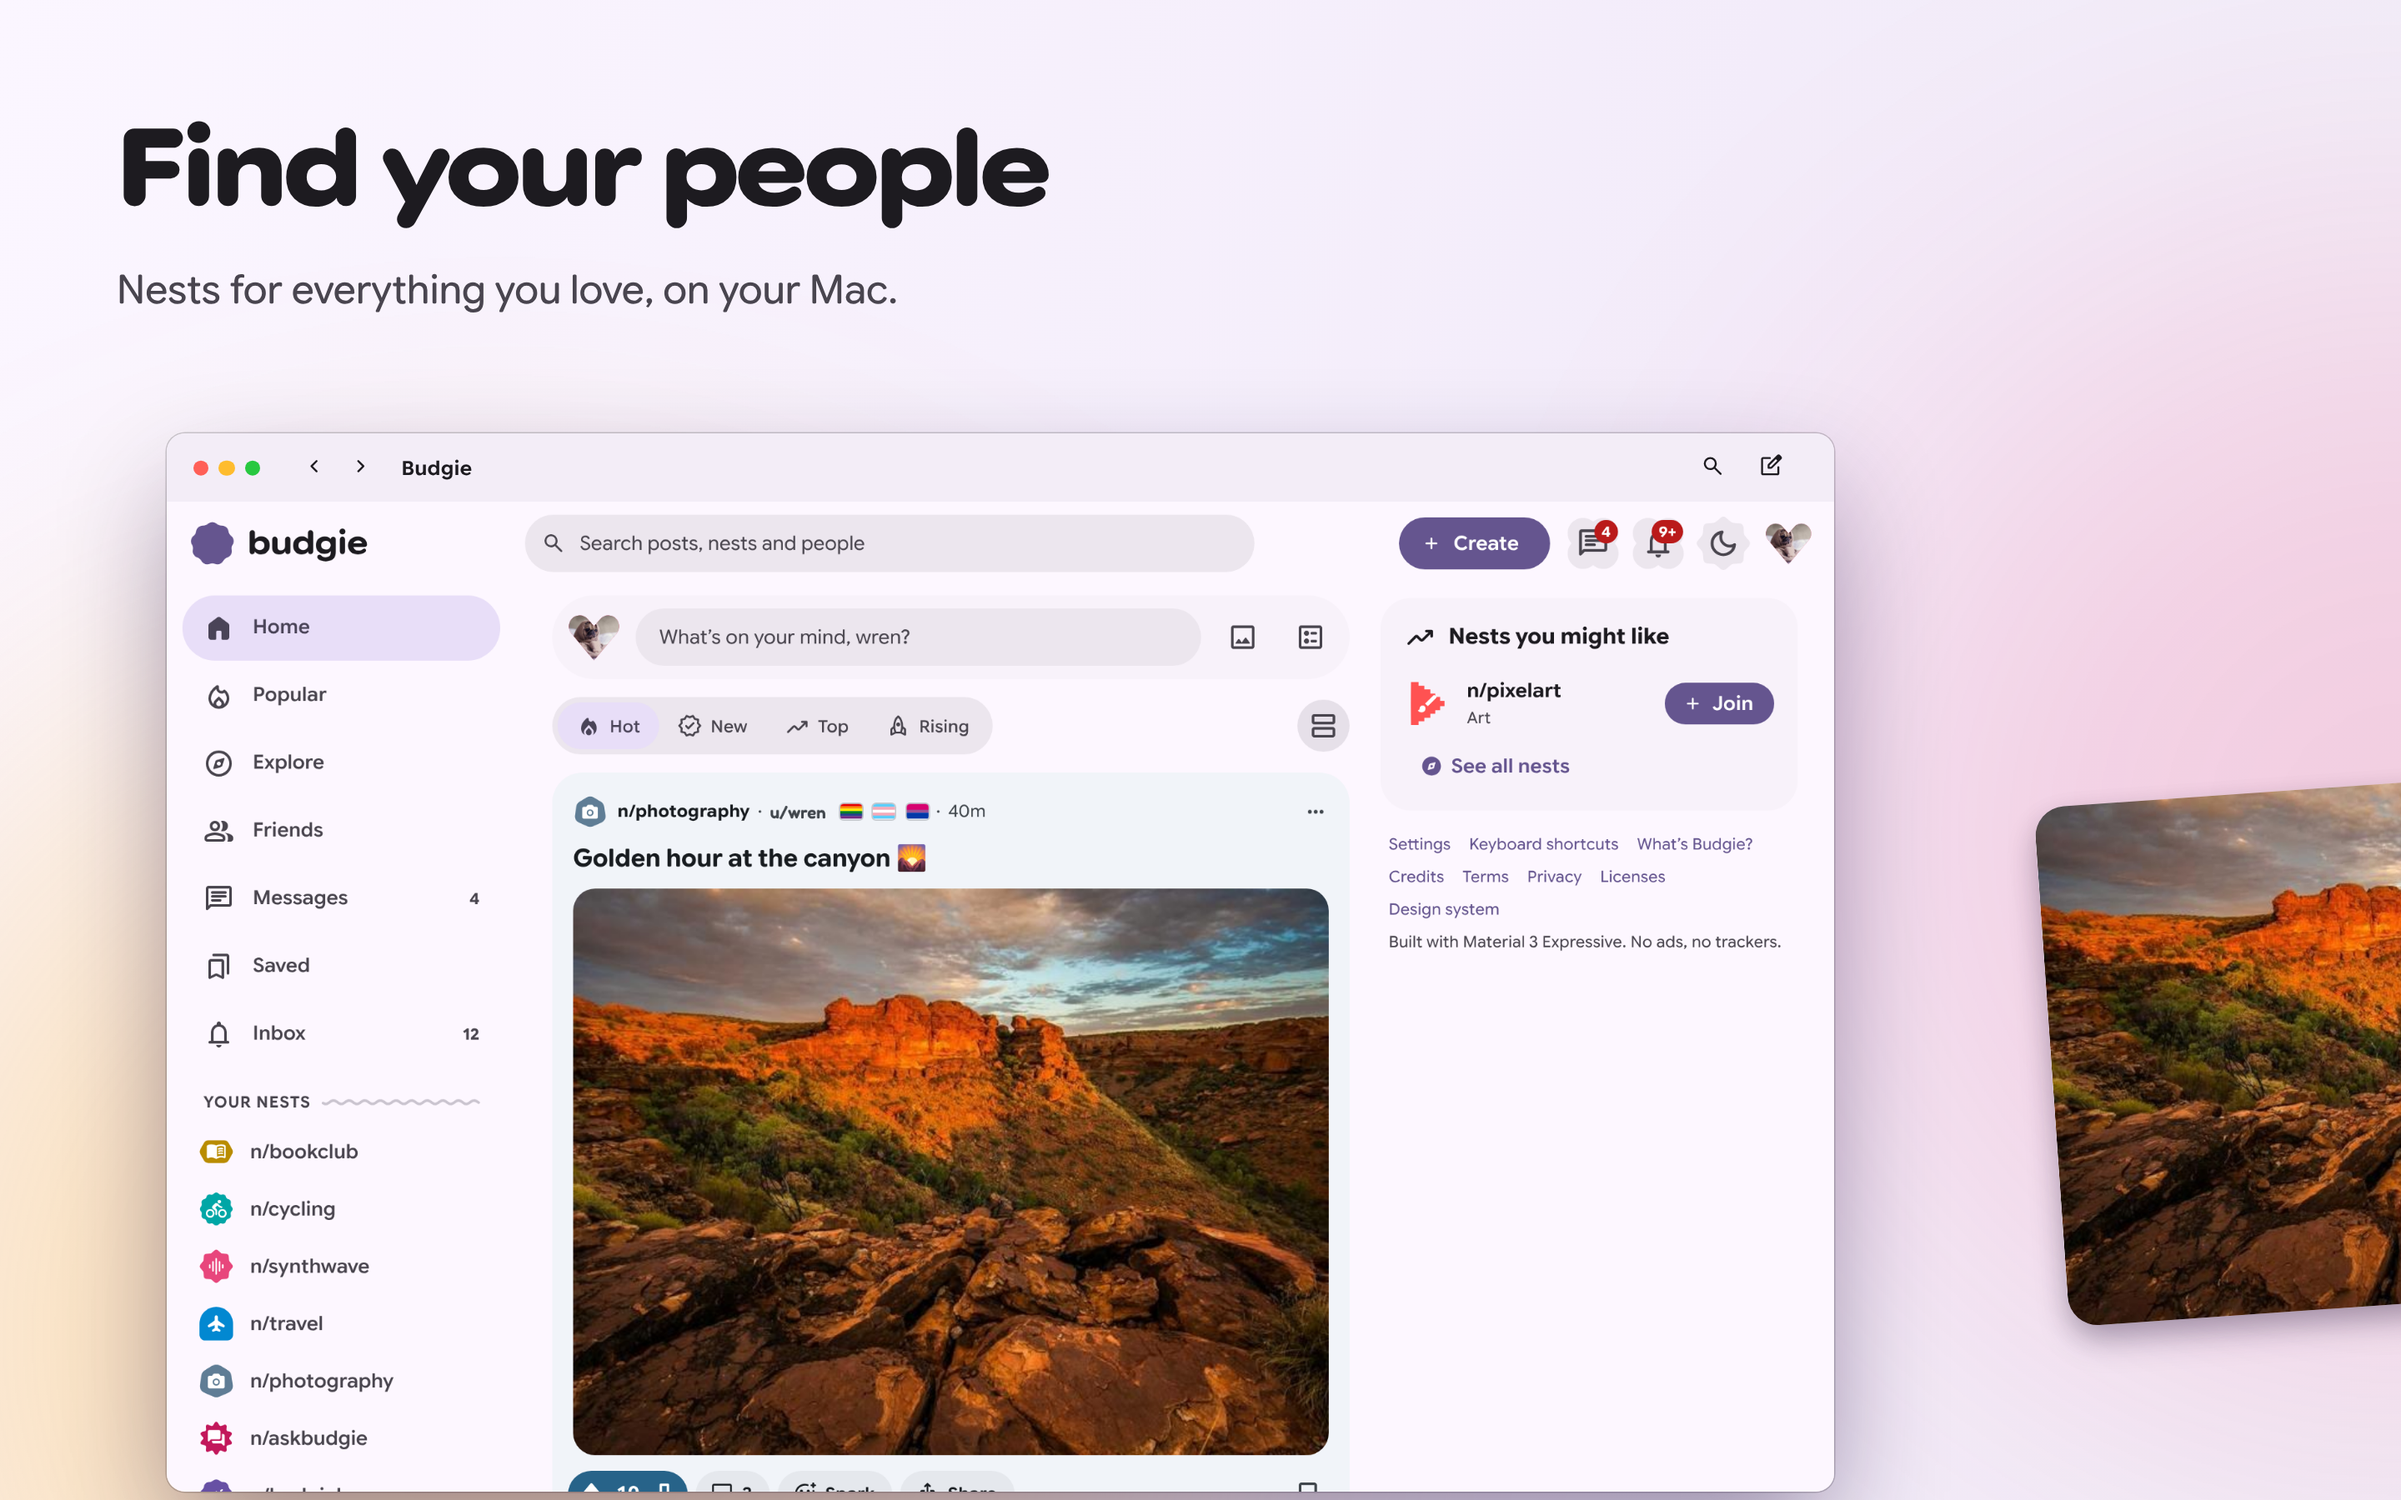
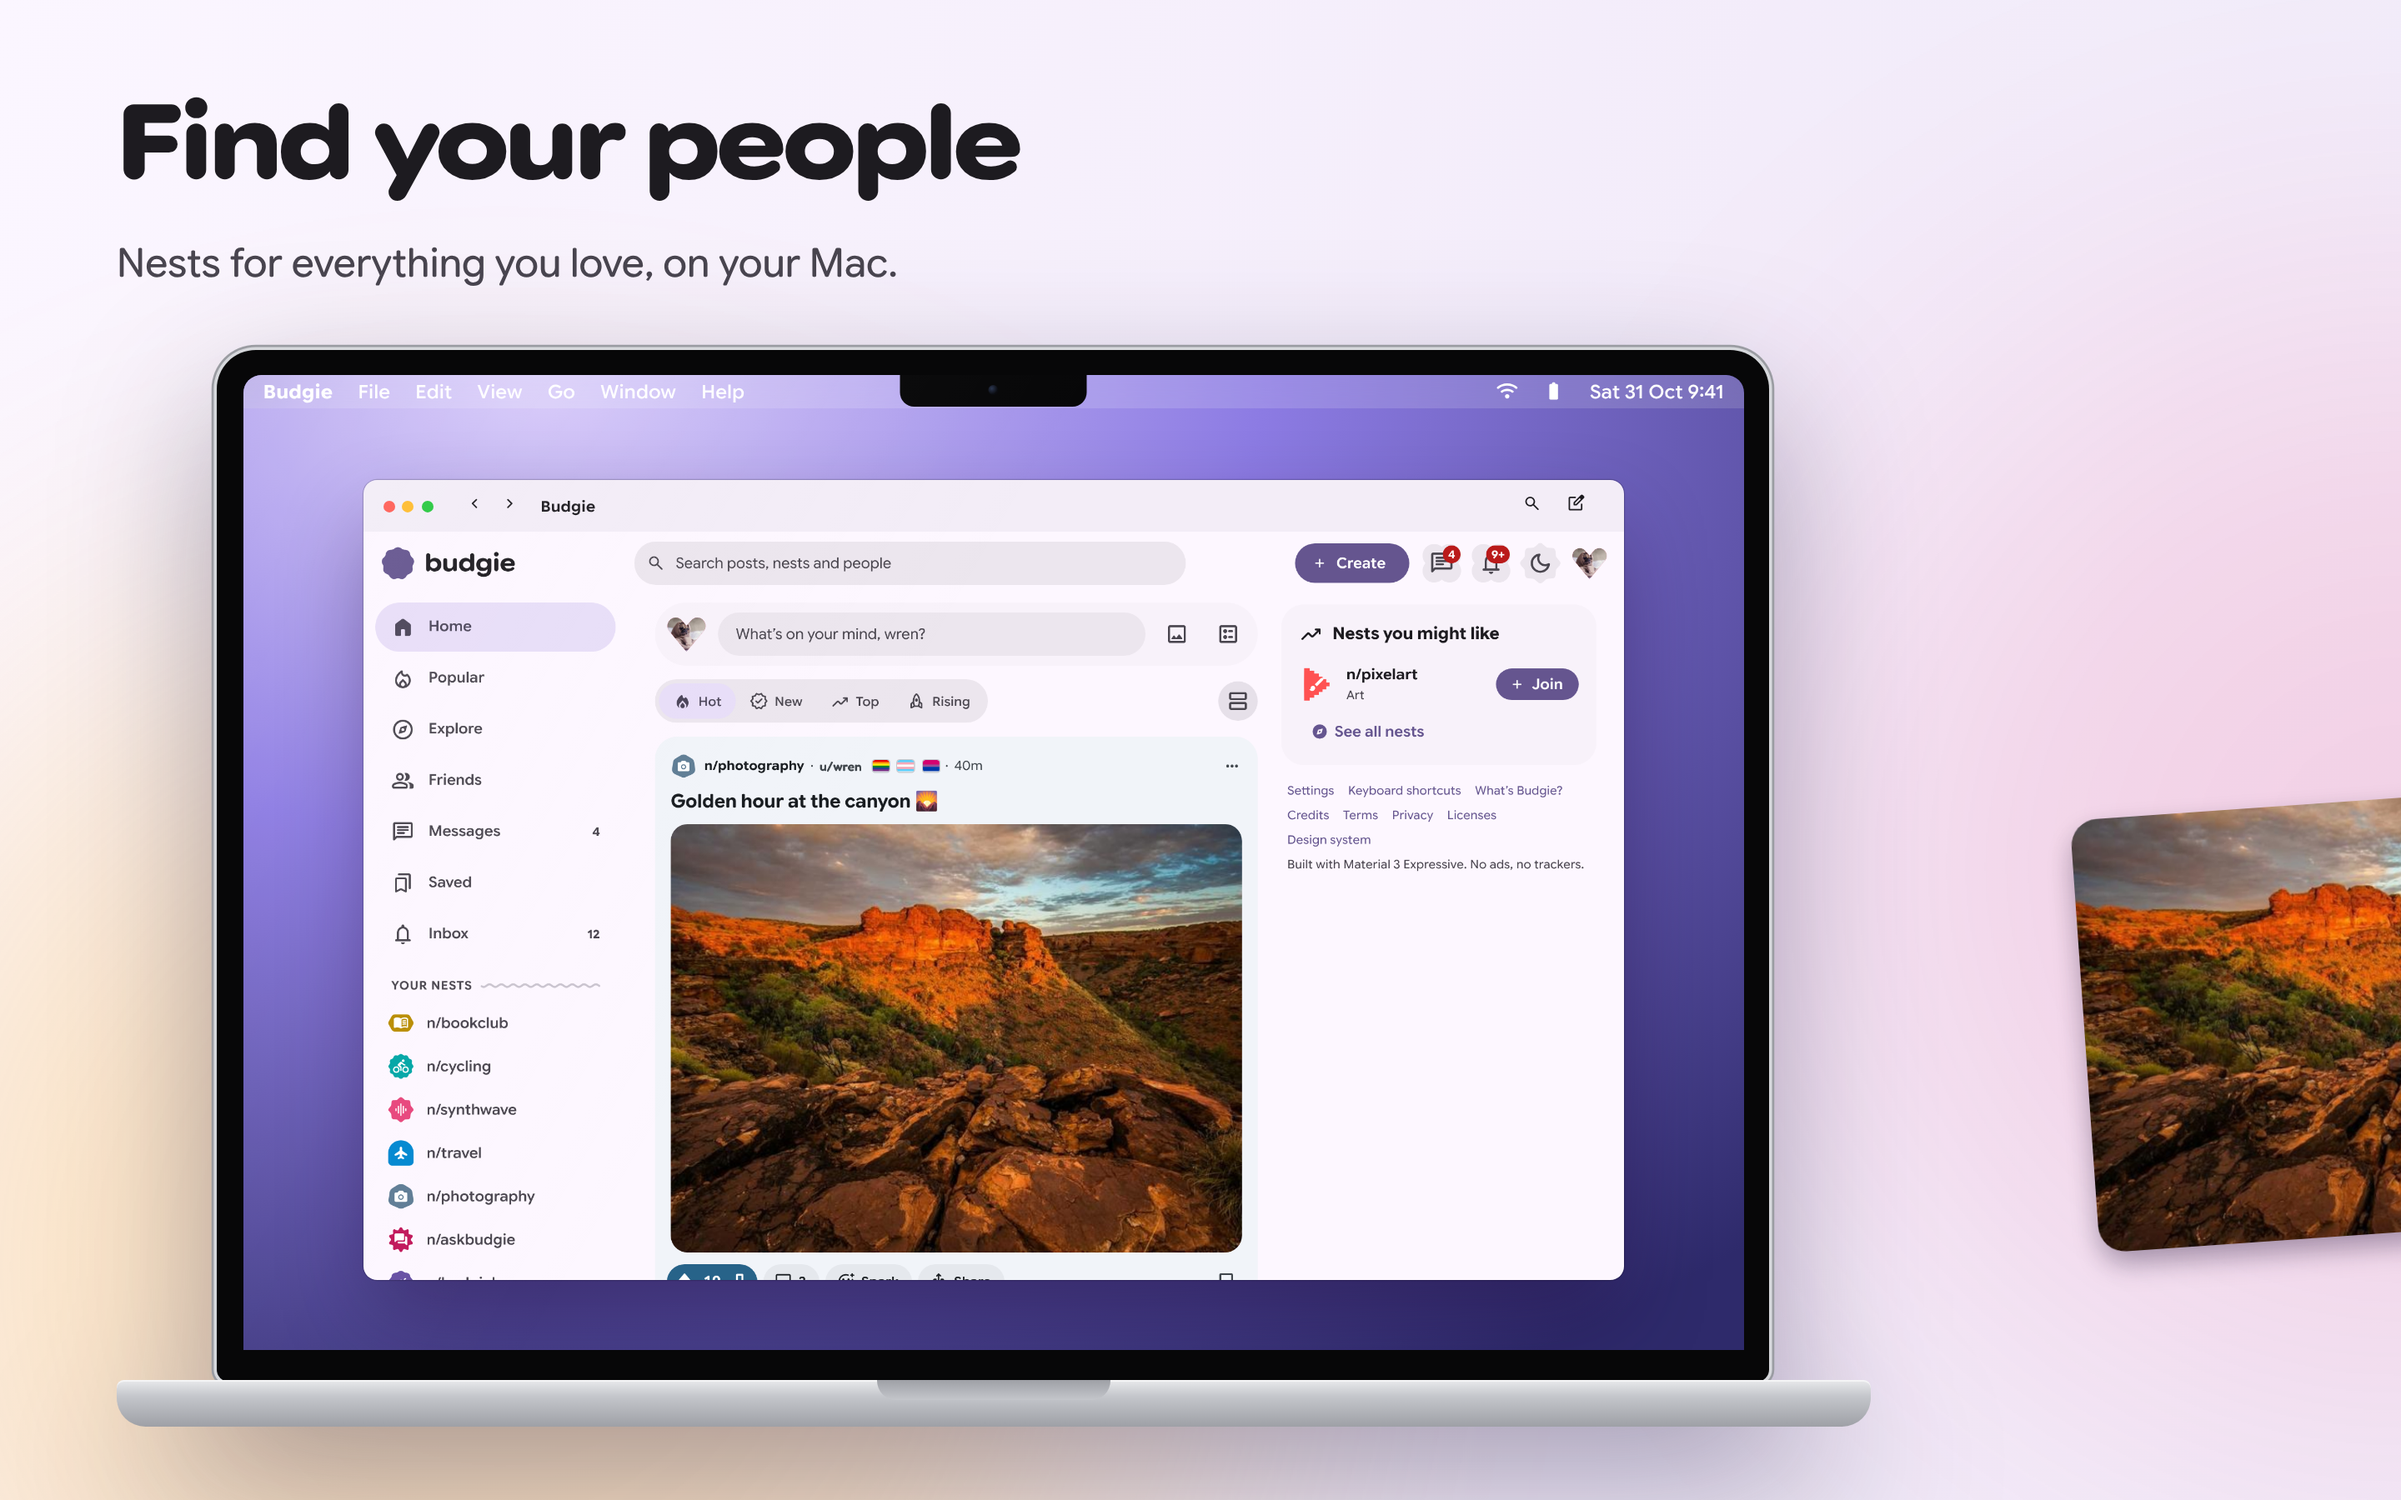
App Store screenshots: the Mac set on real-looking MacBook Pros and iMacs, each showing the desktop with Budgie; no more 'Made for Mac' pair

diff --git a/apps/apple/store/listing.md b/apps/apple/store/listing.md
@@ -94,7 +94,7 @@ if a page is too cramped).
 
 **Screenshots:** in `store/screenshots/`: `iphone-01…08` (6.9-inch display, 1320×2868), `ipad-01…04` (13-inch,
 2064×2752) and `mac-01…06` (2880×1800). Upload each set in its numbered order: some are one picture across two
-screenshots (iPhone 1–2 and 4–5, iPad 1–2, Mac 1–2 and 4–5), so each pair has to stay side by side. The first three
+screenshots (iPhone 1–2 and 4–5, iPad 1–2, Mac 1–2 and 5–6), so each pair has to stay side by side. The first three
 iPhone ones are what people see in search.
 
 ## App Review information
